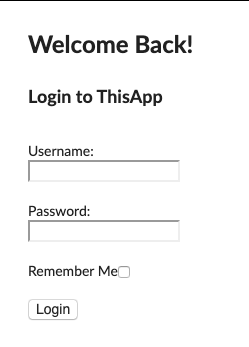
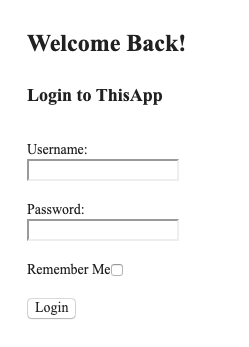
updates image for nostyling component

diff --git a/client/src/styles/global.scss b/client/src/styles/global.scss
@@ -15,6 +15,19 @@ body {
   border: 1px solid black;
   padding: 2rem;
   max-width: 18rem;
+  font-family: "Times New Roman", Times, serif;
+
+  h2 {
+    font-family: "Times New Roman", Times, serif;
+  }
+
+  h3 {
+    font-family: "Times New Roman", Times, serif;
+  }
+
+  button {
+    font-family: "Times New Roman", Times, serif;
+  }
 }
 
 .link {

diff --git a/client/src/styles/navigation.scss b/client/src/styles/navigation.scss
@@ -78,7 +78,6 @@
 
           .image {
             height: 75%;
-
             object-fit: scale-down;
             border-radius: 10px;
             box-shadow: 1px 1px 3px rgb(34, 34, 34),
